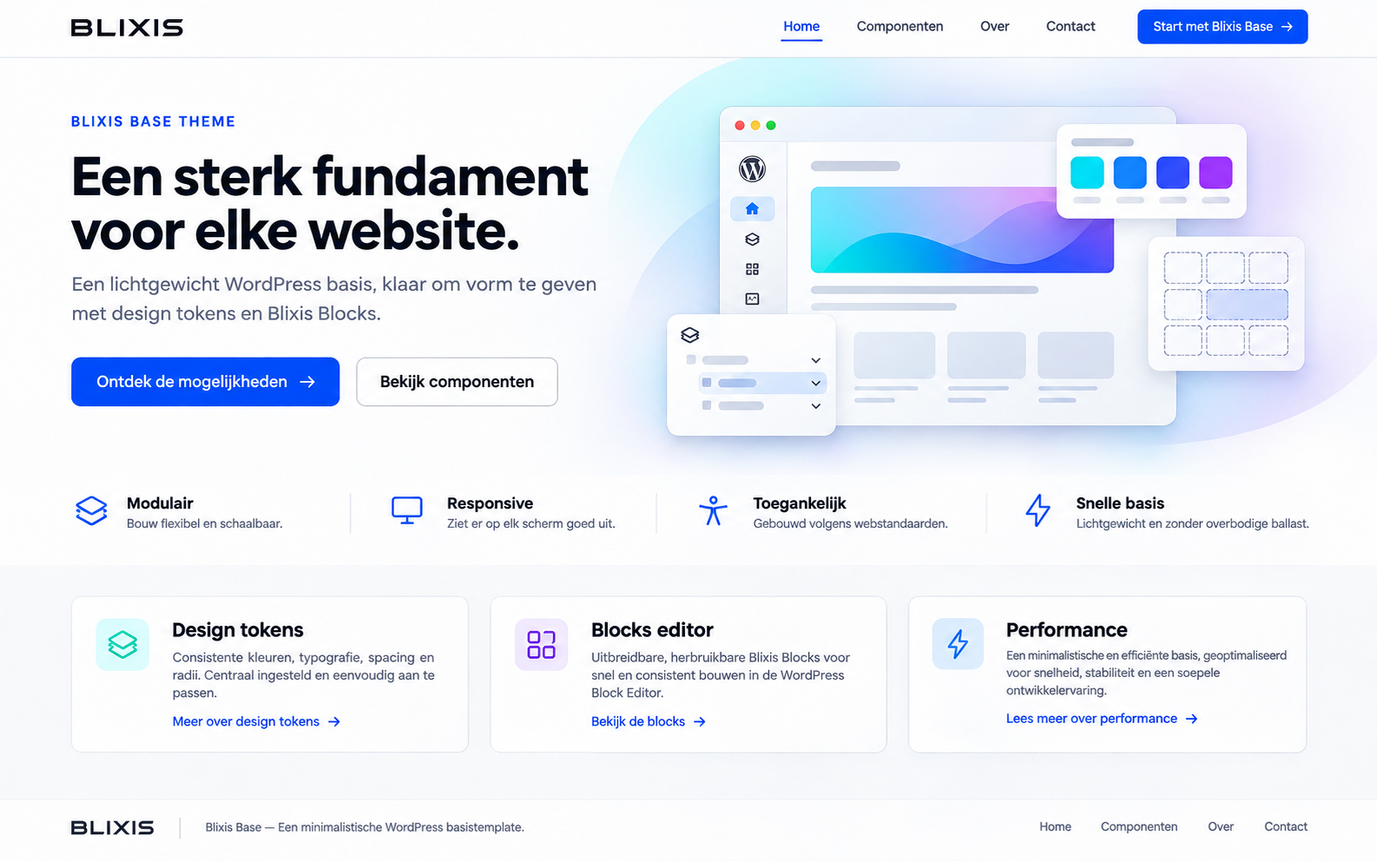
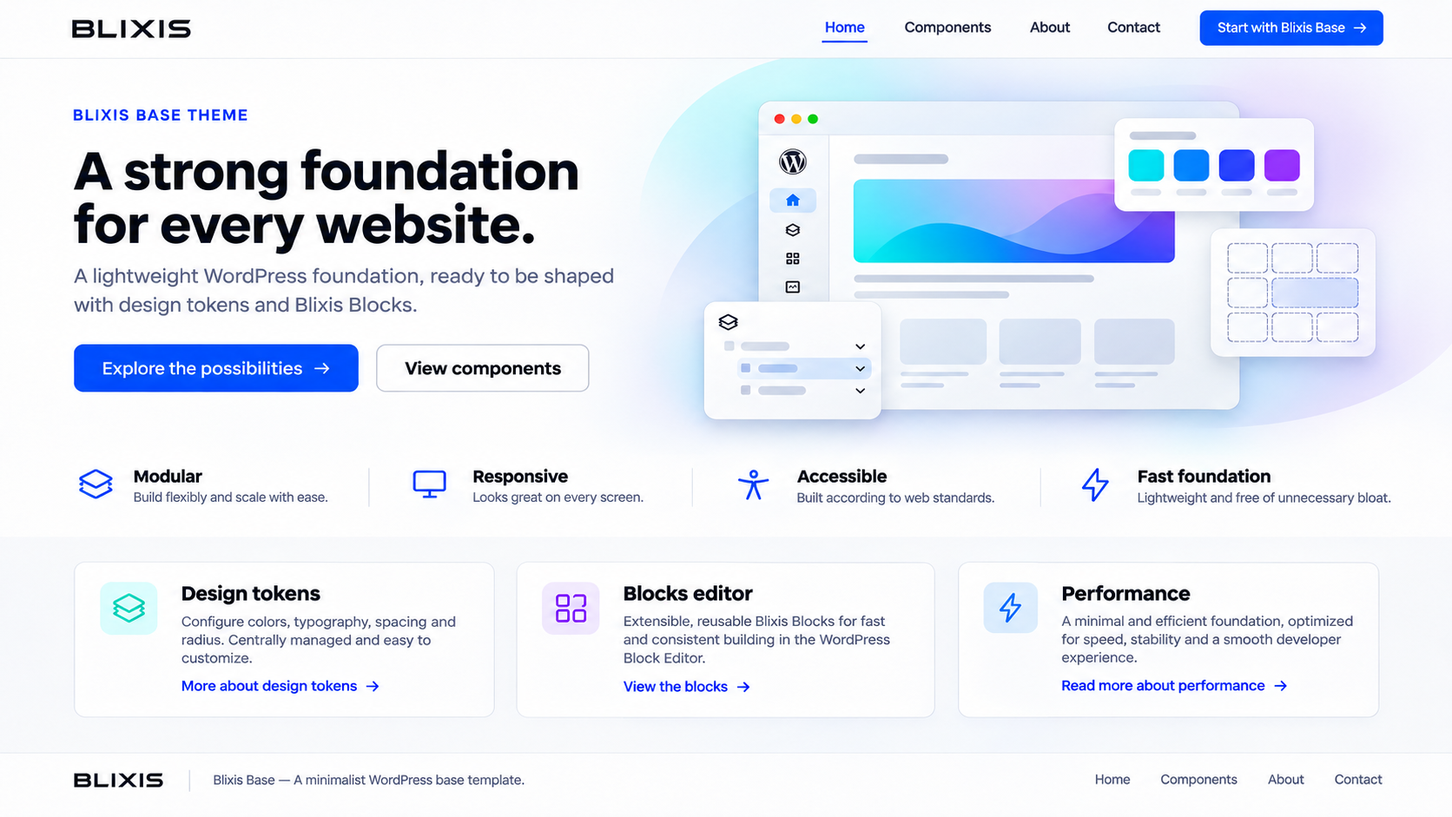
docs(project): clarify roadmap and README
* docs(roadmap): keep migration history outside active phases

* docs(roadmap): audit Phase 01 readiness and tasks

* docs(readme): add project overview and task ownership

diff --git a/scripts/check-docs.py b/scripts/check-docs.py
@@ -44,6 +44,20 @@ for task_id, deps in dependencies.items():
     for dep in deps:
         if dep not in ids:
             errors.append(f"{task_id}: unknown dependency {dep}")
+phase_numbers = {}
+for directory in TASK_ROOT.iterdir():
+    if not directory.is_dir():
+        continue
+    match = re.match(r"^(\d{2})-", directory.name)
+    if not match:
+        errors.append(f"phase directory has no two-digit number: {directory.name}")
+        continue
+    number = match.group(1)
+    if number in phase_numbers:
+        errors.append(f"duplicate phase {number}: {directory.name} and {phase_numbers[number]}")
+    phase_numbers[number] = directory.name
+    if not (directory / "_index.md").is_file():
+        errors.append(f"{directory.name}: missing _index.md")
 if errors:
     print("\n".join(errors), file=sys.stderr)
     raise SystemExit(1)

diff --git a/README.md b/README.md
@@ -1,18 +1,97 @@
 # Blixis WordPress
 
-**Status:** repository foundation implemented; product features are planned. Source is at `~/Developer/WordPress/blixis-wordpress`. The running WordPress installation is `~/Sites/blixis`; Core, uploads, local configuration, and MariaDB data remain there or in Docker.
+[![CI: PHP syntax and documentation](https://github.com/EmVeeNL/blixis-wordpress/actions/workflows/php-lint.yml/badge.svg)](https://github.com/EmVeeNL/blixis-wordpress/actions/workflows/php-lint.yml)
+[![Project status: foundation](https://img.shields.io/badge/status-foundation-blue)](docs/roadmap/ROADMAP.md)
+[![Platform: WordPress](https://img.shields.io/badge/platform-WordPress-21759B?logo=wordpress&logoColor=white)](https://wordpress.org/)
+[![PHP requirement: 8.2 or newer](https://img.shields.io/badge/PHP-8.2%2B-777BB4?logo=php&logoColor=white)](themes/blixis-base/style.css)
+[![Documentation](https://img.shields.io/badge/docs-project%20guide-0A66C2)](docs/README.md)
 
-Blixis aims to combine a neutral **Blixis Base** parent theme, site-specific child themes, the **Blixis Blocks** visual editor, and a controlled Content API. The first client site is planned for Wilde Groei. The present code contains a minimal discoverable block theme and plugin entry point. It does not yet contain a visual editor, token wizard, or API.
+**Blixis** is a planned WordPress theme and visual content platform. Its architecture combines a neutral **Blixis Base** parent theme, site-specific child themes, the **Blixis Blocks** editor, and a controlled Content API. The first client implementation is planned for **Wilde Groei**.
 
-## Local setup
+> **Current state:** This repository contains a minimal WordPress block theme, a plugin entry point, local integration scripts, and project documentation. The child-theme wizard, visual editor, element renderer, and Content API are planned; the preview below is a concept image, not a screenshot of working software.
 
-1. Keep the existing `~/Sites/blixis` site and `blixis` MariaDB project intact. For a different site path, set `BLIXIS_WP_PATH` to its absolute path.
-2. Run `bash scripts/setup-links.sh` from this repository. It only creates or verifies the two Blixis component links and refuses conflicts.
-3. Check `wp core is-installed --path="$HOME/Sites/blixis"`, `wp theme list --path="$HOME/Sites/blixis"`, and `wp plugin list --path="$HOME/Sites/blixis"`. The Blixis components are available but need not be active.
-4. Check the site URL and Compose health without changing runtime data. See [configuration](docs/development/CONFIGURATION.md).
+![Concept preview of Blixis Base, showing a proposed website and editor](docs/assets/blixis-base-preview.png)
 
-Do not copy local `.env`, `wp-config.php`, uploads, or database dumps into this checkout. There is no JavaScript build suite yet. The live CI runs a PHP syntax check; expanded CI is planned alongside actual code.
+*Concept preview supplied for the Blixis Base vision. It does not represent the current theme output.*
 
-## Documentation
+**Keywords:** `wordpress` · `block-theme` · `page-builder` · `design-tokens` · `tailwindcss-v4` · `react` · `content-api`
 
-Start with the [documentation index](docs/README.md), [PRD](docs/architecture/PRD.md), [architecture](docs/architecture/ARCHITECTURE.md), [decisions](docs/architecture/DECISIONS.md), [MVP](docs/roadmap/MVP.md), and [roadmap](docs/roadmap/ROADMAP.md). The [migration record](docs/development/MIGRATION.md) explains the source/runtime split and relocation. Follow [contributing](CONTRIBUTING.md) and [agent instructions](AGENTS.md) for task work.
+**Maintainer:** Michael ([@EmVeeNL](https://github.com/EmVeeNL))
+
+## What exists today
+
+| Area | Current state | Next step |
+|---|---|---|
+| Blixis Base | Minimal discoverable block theme; inactive in the local site | Templates, token mapping, Tailwind build, and accessibility work |
+| Blixis Blocks | Installable plugin entry point; no editor UI | Versioned registry, editor, persistence, and PHP rendering |
+| Child themes | Planned | Generator, validated token setup, and preview |
+| Content API | Proposed, not implemented | Approve access model and build read-only published-content routes |
+| Quality checks | GitHub Actions checks PHP syntax and documentation links/task metadata | Add feature-specific lint, tests, builds, and security checks as code arrives |
+
+See the [PRD](docs/architecture/PRD.md), [MVP scope](docs/roadmap/MVP.md), and [roadmap](docs/roadmap/ROADMAP.md) for the intended product and sequence. A documented plan is not an implementation claim.
+
+## Local development
+
+The source checkout and the running WordPress installation are deliberately separate:
+
+```text
+~/Developer/WordPress/blixis-wordpress/   # Blixis-owned source (this repository)
+~/Sites/blixis/                            # Local WordPress Core, content, and configuration
+```
+
+The existing local site uses the Docker Compose project `blixis` and MariaDB volume `blixis_mariadb_data`. Keep its database, uploads, `.env`, and `wp-config.php` in the runtime installation. This repository does not install WordPress Core or create a new site for you.
+
+### Prerequisites
+
+- A working local WordPress installation and WP-CLI for the verification commands below.
+- PHP 8.2 or newer for the current theme and plugin headers. The full supported-version matrix is still [provisional](docs/development/SUPPORT_MATRIX.md).
+- Docker Compose only if you use the included MariaDB service definition.
+
+### Link the Blixis components
+
+From the source checkout:
+
+```bash
+bash scripts/setup-links.sh
+wp core is-installed --path="$HOME/Sites/blixis"
+wp theme list --path="$HOME/Sites/blixis"
+wp plugin list --path="$HOME/Sites/blixis"
+```
+
+`setup-links.sh` links `themes/blixis-base` and `plugins/blixis-blocks` into the local site. It is safe to rerun and stops if a different file or link already occupies either destination. Set `BLIXIS_WP_PATH` to an **absolute** WordPress path before running the script if your site is elsewhere. Linking does not activate the theme or plugin.
+
+To inspect the existing database service without changing it:
+
+```bash
+docker compose --env-file "$HOME/Sites/blixis/.env" -f compose.yaml config --quiet
+docker compose --env-file "$HOME/Sites/blixis/.env" -f compose.yaml ps
+```
+
+Read [configuration](docs/development/CONFIGURATION.md) and the [migration record](docs/development/MIGRATION.md) before changing local infrastructure. Never put runtime credentials, uploads, or database dumps in this repository.
+
+## Repository map
+
+```text
+themes/blixis-base/       Minimal parent block theme
+plugins/blixis-blocks/    Plugin entry point
+scripts/                  Safe local links and documentation validation
+docs/                     Product, architecture, development, security, and roadmap
+.github/workflows/        Current PHP syntax and documentation checks
+compose.yaml              MariaDB service with a stable Compose project name
+```
+
+The `docs/elements/` JSON files and `docs/examples/` are **specifications and examples**, not production registry code. Future workspaces should be introduced with their first real consumers.
+
+## Documentation and roadmap
+
+- [Documentation index](docs/README.md) — guide to all project documents.
+- [Architecture](docs/architecture/ARCHITECTURE.md), [decisions](docs/architecture/DECISIONS.md), and [open questions](docs/architecture/OPEN_QUESTIONS.md).
+- [Blixis Base and child themes](docs/development/TEMPLATE.md), [editor](docs/architecture/EDITOR.md), [element registry](docs/architecture/ELEMENTS.md), and [API proposal](docs/architecture/API.md).
+- [Roadmap](docs/roadmap/ROADMAP.md) — nine phases with individual task files, dependencies, status, acceptance criteria, and testing requirements.
+- [Security and performance](docs/security/SECURITY_AND_PERFORMANCE.md), [Git and CI workflow](docs/development/GIT.md), and [contributing](CONTRIBUTING.md).
+
+## Contributing
+
+Michael ([@EmVeeNL](https://github.com/EmVeeNL)) owns the roadmap tasks. Follow [AGENTS.md](AGENTS.md), the relevant task file, and [Contributing](CONTRIBUTING.md). Use a task branch from `main`, Conventional Commits, and a PR with exact test results. Update task status only when its evidence supports the transition.
+
+This repository has no published release of the planned editor or API. The current source license has not yet been specified in a `LICENSE` file; ask the maintainer before reusing code or assets outside this project.

diff --git a/docs/roadmap/phases/01-discovery-foundation/01-requirements-and-scope.md b/docs/roadmap/phases/01-discovery-foundation/01-requirements-and-scope.md
@@ -2,9 +2,9 @@
 id: "01-01"
 title: "Confirm requirements, personas, and MVP scope"
 phase: "01"
-status: Ready
+status: Backlog
 priority: P0
-owner: null
+owner: "EmVeeNL"
 created_at: "2026-11-06"
 updated_at: "2026-11-06"
 depends_on: []
@@ -29,20 +29,21 @@ Interview editors, site builders, and reviewers; reconcile FR-01–FR-16 with MV
 
 ## Technical requirements
 
-- Use the module boundaries and contracts in [Architecture](../../../architecture/ARCHITECTURE.md).
-- Validate server-side data and permissions where applicable; document schema or ADR changes.
-- Preserve existing content and provide a migration or rollback plan for contract changes.
+- Map each persona and user journey to FR-01–FR-16 in the [PRD](../../../architecture/PRD.md), with priority, owner, and a testable outcome.
+- Reconcile the four [MVP milestones](../../MVP.md) with the nine-phase roadmap; identify what Wilde Groei needs before launch and what can follow.
+- Record conflicting requests and unanswered product choices in [Open questions](../../../architecture/OPEN_QUESTIONS.md); use an ADR for decisions that alter module or data contracts.
+- Obtain explicit product-owner approval of scope and release gates; retain the review evidence in the task and PR.
 
 ## Acceptance criteria
 
-- [ ] The described capability works in the intended WordPress and browser environments.
-- [ ] Relevant security, accessibility, and performance requirements are verified.
-- [ ] Tests and documentation are included with the implementation.
-- [ ] A reviewed PR is merged, with evidence and metadata recorded here.
+- [ ] Personas, journeys, FR-01–FR-16, MVP milestones, and roadmap are traceable without conflicting scope claims.
+- [ ] Open questions have an owner and decision point; accepted decisions are recorded with evidence.
+- [ ] The product owner approves the PRD, MVP scope, and release gates.
+- [ ] Documentation links pass validation; the reviewed PR is merged and task metadata records the evidence.
 
 ## Testing requirements
 
-Stakeholder walkthrough, requirement traceability, and documentation link check. Include negative permission, invalid-input, version, and regression cases where relevant. Record exact commands and results in the PR.
+Run `python3 scripts/check-docs.py`; manually check requirement-to-milestone traceability and contradictory statements. Walk the editor, reviewer, publisher, and API journeys with stakeholders. Record approval, unresolved objections, exact checks, and results in the PR.
 
 ## Tracking and completion
 
@@ -52,10 +53,11 @@ Stakeholder walkthrough, requirement traceability, and documentation link check.
 - **Commit references:** None.
 - **PR number and URL:** None.
 - **Started / completed / closed:** Not recorded.
-- **Status:** Ready. Update frontmatter and history on every transition; follow [status workflow](../../../development/STATUS_WORKFLOW.md).
+- **Status:** Backlog. Update frontmatter and history on every transition; follow [status workflow](../../../development/STATUS_WORKFLOW.md).
 
 ## Status history
 
 | Date | Transition | Evidence |
 |---|---|---|
 | 2026-11-06 | Initial planning → Ready | Downloaded project plan; no implementation evidence |
+| 2026-11-06 | Ready → Backlog | Phase audit: owner unassigned and no scope approval recorded |

diff --git a/docs/roadmap/phases/01-discovery-foundation/05-architecture-contracts.md b/docs/roadmap/phases/01-discovery-foundation/05-architecture-contracts.md
@@ -4,7 +4,7 @@ title: "Validate architecture contracts and ADRs"
 phase: "01"
 status: Backlog
 priority: P0
-owner: null
+owner: "EmVeeNL"
 created_at: "2026-11-06"
 updated_at: "2026-11-06"
 depends_on: ["01-04"]
@@ -29,20 +29,21 @@ Review data ownership, schema and token contracts, rendering and API trust bound
 
 ## Technical requirements
 
-- Use the module boundaries and contracts in [Architecture](../../../architecture/ARCHITECTURE.md).
-- Validate server-side data and permissions where applicable; document schema or ADR changes.
-- Preserve existing content and provide a migration or rollback plan for contract changes.
+- Confirm ownership of WordPress post fields, protected document meta, theme configuration, element manifests, renderer, editor, and Content API.
+- Review versioning, migrations, revision support, permission boundaries, public/draft separation, token generation, and cache invalidation using fixtures or proofs of concept.
+- Resolve provisional [ADRs](../../../architecture/DECISIONS.md) and relevant [open questions](../../../architecture/OPEN_QUESTIONS.md) with the project owner; record alternatives and consequences.
+- Publish stable contract examples for schema, tokens, and API before dependent implementation tasks become `Ready`.
 
 ## Acceptance criteria
 
-- [ ] The described capability works in the intended WordPress and browser environments.
-- [ ] Relevant security, accessibility, and performance requirements are verified.
-- [ ] Tests and documentation are included with the implementation.
-- [ ] A reviewed PR is merged, with evidence and metadata recorded here.
+- [ ] Module ownership and data flow are unambiguous across architecture, ADRs, examples, and roadmap.
+- [ ] Schema, token, renderer, and API boundaries have versioned examples and negative security cases.
+- [ ] Relevant ADRs have an evidence-backed status and owner decision; remaining questions have explicit follow-up owners.
+- [ ] The reviewed PR is merged with architecture/security review notes and task metadata.
 
 ## Testing requirements
 
-Architecture and threat-model review with contract fixtures and recorded decisions. Include negative permission, invalid-input, version, and regression cases where relevant. Record exact commands and results in the PR.
+Run contract fixtures for valid/invalid document graphs, token values, migration boundaries, and authorization cases where prototypes exist. Complete an architecture and threat-model review; validate links and record approvals, gaps, and exact test results.
 
 ## Tracking and completion
 

diff --git a/docs/roadmap/phases/01-discovery-foundation/02-compatibility-spike.md b/docs/roadmap/phases/01-discovery-foundation/02-compatibility-spike.md
@@ -4,7 +4,7 @@ title: "Verify WordPress and toolchain compatibility"
 phase: "01"
 status: Backlog
 priority: P0
-owner: null
+owner: "EmVeeNL"
 created_at: "2026-11-06"
 updated_at: "2026-11-06"
 depends_on: ["01-01"]
@@ -29,20 +29,21 @@ Test candidate WordPress, PHP, Node, browser, Tailwind v4, and drag-and-drop ver
 
 ## Technical requirements
 
-- Use the module boundaries and contracts in [Architecture](../../../architecture/ARCHITECTURE.md).
-- Validate server-side data and permissions where applicable; document schema or ADR changes.
-- Preserve existing content and provide a migration or rollback plan for contract changes.
+- Select candidate WordPress/PHP and Node versions, then test the actual REST metadata/revision behavior and PHP integration needed by the planned document model.
+- Prove a minimal Tailwind CSS v4 build and nested drag/drop plus keyboard path with candidate dependencies; check package and icon/font licenses.
+- Test representative current Chrome, Firefox, Safari, and Edge versions or document any untested combination.
+- Replace the provisional [support matrix](../../../development/SUPPORT_MATRIX.md) with exact supported versions, constraints, and CI coverage.
 
 ## Acceptance criteria
 
-- [ ] The described capability works in the intended WordPress and browser environments.
-- [ ] Relevant security, accessibility, and performance requirements are verified.
-- [ ] Tests and documentation are included with the implementation.
-- [ ] A reviewed PR is merged, with evidence and metadata recorded here.
+- [ ] Exact versions and a supported/tested matrix are recorded with reproducible commands and environment details.
+- [ ] Protected post meta, revision behavior, Tailwind output, and drag/drop feasibility have evidence or explicit gaps.
+- [ ] Dependency and asset licenses are reviewed; unsupported combinations and mitigation are documented.
+- [ ] The reviewed PR is merged with test results and task metadata.
 
 ## Testing requirements
 
-Run a smoke matrix for REST metadata, CSS build, editor drag/drop, and supported browsers. Include negative permission, invalid-input, version, and regression cases where relevant. Record exact commands and results in the PR.
+Run smoke tests for WordPress REST meta and revisions, PHP versions, Node build, Tailwind CSS output, drag/drop pointer and keyboard use, and browser compatibility. Include failed-version and permission cases; record command output or CI links.
 
 ## Tracking and completion
 

diff --git a/docs/roadmap/phases/01-discovery-foundation/03-repository-scaffold.md b/docs/roadmap/phases/01-discovery-foundation/03-repository-scaffold.md
@@ -4,7 +4,7 @@ title: "Build the monorepo scaffold"
 phase: "01"
 status: Backlog
 priority: P0
-owner: null
+owner: "EmVeeNL"
 created_at: "2026-11-06"
 updated_at: "2026-11-06"
 depends_on: ["01-02"]
@@ -29,20 +29,21 @@ Introduce real pnpm workspaces and PHP tooling only with their first consumers; 
 
 ## Technical requirements
 
-- Use the module boundaries and contracts in [Architecture](../../../architecture/ARCHITECTURE.md).
-- Validate server-side data and permissions where applicable; document schema or ADR changes.
-- Preserve existing content and provide a migration or rollback plan for contract changes.
+- Keep WordPress Core, uploads, secrets, and database outside source; use the existing [link script](../../../../scripts/setup-links.sh) and stable Compose project identity.
+- Introduce pnpm workspace packages and PHP tooling only when their first real consumers exist; add a lockfile and documented install/build commands.
+- Ensure `.gitignore`, environment examples, scripts, and module boundaries support a clean checkout without copying local credentials.
+- Document the bootstrap, expected outputs, and safe rollback in the root README and development guides.
 
 ## Acceptance criteria
 
-- [ ] The described capability works in the intended WordPress and browser environments.
-- [ ] Relevant security, accessibility, and performance requirements are verified.
-- [ ] Tests and documentation are included with the implementation.
-- [ ] A reviewed PR is merged, with evidence and metadata recorded here.
+- [ ] A fresh checkout can install and build the implemented packages from documented commands without local secrets.
+- [ ] Workspace and PHP tooling correspond to real source modules; no empty placeholder packages or runtime files are tracked.
+- [ ] The local WordPress integration remains functional and a conflicting symlink is refused safely.
+- [ ] The reviewed PR is merged with reproducible setup evidence and task metadata.
 
 ## Testing requirements
 
-Fresh checkout install and build, plus script and configuration smoke tests. Include negative permission, invalid-input, version, and regression cases where relevant. Record exact commands and results in the PR.
+Use a clean checkout for install/build and script smoke tests. Verify `bash -n scripts/setup-links.sh`, idempotent links, rejection of conflicting links, Compose configuration, WordPress recognition, and ignored secret/runtime paths. Record exact results.
 
 ## Tracking and completion
 

diff --git a/docs/roadmap/phases/01-discovery-foundation/04-quality-pipeline.md b/docs/roadmap/phases/01-discovery-foundation/04-quality-pipeline.md
@@ -4,7 +4,7 @@ title: "Extend the quality pipeline"
 phase: "01"
 status: Backlog
 priority: P0
-owner: null
+owner: "EmVeeNL"
 created_at: "2026-11-06"
 updated_at: "2026-11-06"
 depends_on: ["01-03"]
@@ -29,20 +29,21 @@ Add CI jobs for implemented PHP and TypeScript lint, type checking, tests, build
 
 ## Technical requirements
 
-- Use the module boundaries and contracts in [Architecture](../../../architecture/ARCHITECTURE.md).
-- Validate server-side data and permissions where applicable; document schema or ADR changes.
-- Preserve existing content and provide a migration or rollback plan for contract changes.
+- Preserve the existing `syntax` and `docs` jobs; add PHP, TypeScript, build, test, dependency, and secret checks only for implemented code and scripts.
+- Use pinned actions, least-privilege workflow permissions, deterministic dependencies, and appropriately scoped CI matrices.
+- Make required checks correspond to jobs that actually exist; document branch-protection requirements and review policy.
+- Give each check a failure mode and clear diagnostic output so PR authors can repair it.
 
 ## Acceptance criteria
 
-- [ ] The described capability works in the intended WordPress and browser environments.
-- [ ] Relevant security, accessibility, and performance requirements are verified.
-- [ ] Tests and documentation are included with the implementation.
-- [ ] A reviewed PR is merged, with evidence and metadata recorded here.
+- [ ] Every implemented code path has relevant reproducible CI checks; no job advertises an absent test suite.
+- [ ] Deliberate syntax, documentation, lint, and test failures cause the intended PR checks to fail, then pass when fixed.
+- [ ] Workflow permissions and dependency versions are reviewed, and branch protection requires the agreed checks.
+- [ ] The reviewed PR is merged with CI run links and task metadata.
 
 ## Testing requirements
 
-Prove PR checks fail for deliberate lint and test failures, then pass after repair. Include negative permission, invalid-input, version, and regression cases where relevant. Record exact commands and results in the PR.
+Use temporary test branches or a safe fixture to trigger each check's failure path, then verify a passing run. Inspect workflow permissions, action pinning, check names, and branch protection. Record run URLs and cleanup.
 
 ## Tracking and completion
 

diff --git a/docs/roadmap/ROADMAP.md b/docs/roadmap/ROADMAP.md
@@ -1,10 +1,12 @@
 # Roadmap
 
+**Owner:** Michael ([@EmVeeNL](https://github.com/EmVeeNL)) maintains all roadmap tasks.
+
 The 46 planned tasks from the project pack are organized into nine phases. The separate completed repository migration is recorded as `R-01` to avoid colliding with planned task `01-03`. Task status and completion evidence live in individual files; no feature task was marked complete by this documentation integration. See the [status workflow](../development/STATUS_WORKFLOW.md) and [MVP sequence](MVP.md).
 
 | Phase | Purpose | Status |
 |---|---|---|
-| [01 — Discovery and foundation](phases/01-discovery-foundation/_index.md) | Requirements, compatibility, tooling, contracts | Ready |
+| [01 — Discovery and foundation](phases/01-discovery-foundation/_index.md) | Requirements, compatibility, tooling, contracts | Backlog |
 | [02 — Base theme](phases/02-blixis-base-theme/_index.md) | Theme foundation and Tailwind build | Backlog |
 | [03 — Child theme and wizard](phases/03-child-theme-setup-wizard/_index.md) | Child theme, tokens, fonts, preview | Backlog |
 | [04 — Editor core](phases/04-editor-core/_index.md) | Shell, state, canvas, inspector | Backlog |
@@ -14,4 +16,4 @@ The 46 planned tasks from the project pack are organized into nine phases. The s
 | [08 — Content API](phases/08-content-api/_index.md) | Secure published-content API | Backlog |
 | [09 — Future extensions](phases/09-future-extensions/_index.md) | Frontend editing, premium, reuse, collaboration | Backlog |
 
-The API may move earlier only after schema and security decisions are approved. Dates and budget are unassigned. The [repository migration record](phases/01-repository-foundation/03-restructure-repository.md) documents prior completed work; it is not a remaining phase gate.
+The API may move earlier only after schema and security decisions are approved. Dates and budget are unassigned. The [repository migration record](../development/history/R-01-restructure-repository.md) documents prior completed work outside the active phases; it is not a remaining phase gate.

diff --git a/docs/development/MIGRATION.md b/docs/development/MIGRATION.md
@@ -10,7 +10,7 @@ The clean source checkout on `main` at `2d88d52` was moved to `~/Developer/WordP
 
 The link script now defaults to `~/Sites/blixis`, independent of source location. To roll back this local relocation, first verify the destination and runtime symlink targets, move the checkout back to an empty original path, and retarget only the two Blixis symlinks. No database action belongs in this rollback.
 
-See [configuration](CONFIGURATION.md) for current paths and safe Compose commands. The prior migration task is [R-01](../roadmap/phases/01-repository-foundation/03-restructure-repository.md).
+See [configuration](CONFIGURATION.md) for current paths and safe Compose commands. The completed migration record is [R-01](history/R-01-restructure-repository.md).
 
 ## Earlier validation and unresolved history item
 

diff --git a/docs/roadmap/phases/01-discovery-foundation/_index.md b/docs/roadmap/phases/01-discovery-foundation/_index.md
@@ -1,10 +1,10 @@
 # 01 Discovery Foundation
 
-**Status:** Ready. Tasks are planned unless their individual file records verified completion.
+**Status:** Backlog. Tasks are planned unless their individual file records verified completion.
 
 | ID | Task | Status | Priority |
 |---|---|---|---|
-| [01-01](01-requirements-and-scope.md) | Confirm requirements, personas, and MVP scope | Ready | P0 |
+| [01-01](01-requirements-and-scope.md) | Confirm requirements, personas, and MVP scope | Backlog | P0 |
 | [01-02](02-compatibility-spike.md) | Verify WordPress and toolchain compatibility | Backlog | P0 |
 | [01-03](03-repository-scaffold.md) | Build the monorepo scaffold | Backlog | P0 |
 | [01-04](04-quality-pipeline.md) | Extend the quality pipeline | Backlog | P0 |

diff --git a/docs/development/history/R-01-restructure-repository.md b/docs/development/history/R-01-restructure-repository.md
@@ -4,7 +4,7 @@ title: "Restructure repository and separate runtime"
 phase: "repository-foundation"
 status: Done
 priority: P0
-owner: null
+owner: "EmVeeNL"
 created_at: "2026-11-06"
 updated_at: "2026-11-06"
 depends_on: []

diff --git a/docs/roadmap/phases/05-elements-responsive-workflow/03-media-and-interactive-elements.md b/docs/roadmap/phases/05-elements-responsive-workflow/03-media-and-interactive-elements.md
@@ -4,7 +4,7 @@ title: "Implement media and interactive elements"
 phase: "05"
 status: Backlog
 priority: P0
-owner: null
+owner: "EmVeeNL"
 created_at: "2026-11-06"
 updated_at: "2026-11-06"
 depends_on: ["05-02"]
